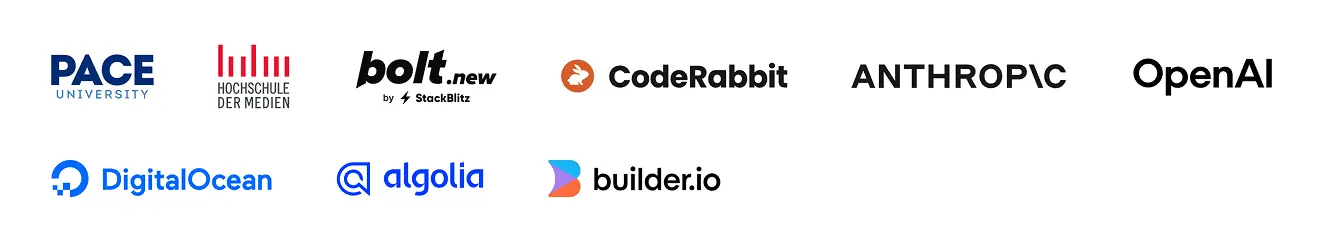
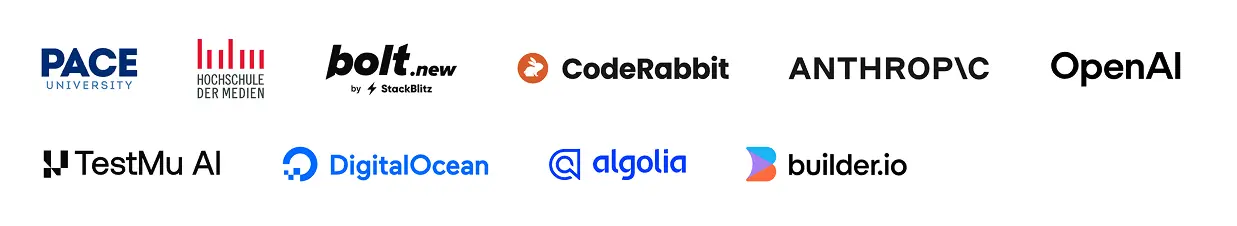
Add TestMu AI to partners in Credits component (#196)

diff --git a/website/src/components/Credits.tsx b/website/src/components/Credits.tsx
@@ -10,6 +10,7 @@ import {
   HdmLogo,
   OpenAILogo,
   PaceLogo,
+  TestMuAiLogo,
 } from '~/logos';
 
 /**
@@ -65,6 +66,10 @@ export const Credits = component$(() => {
           { Logo: CodeRabbitLogo, href: 'https://coderabbit.link/valibot' },
           { Logo: AnthropicLogo, href: 'https://www.anthropic.com' },
           { Logo: OpenAILogo, href: 'https://www.openai.com' },
+          {
+            Logo: TestMuAiLogo,
+            href: 'https://www.testmuai.com/?utm_medium=sponsor&utm_source=valibot',
+          },
           { Logo: DigitalOceanLogo, href: 'https://www.digitalocean.com/' },
           { Logo: AlgoliaLogo, href: 'https://www.algolia.com' },
           { Logo: BuilderLogo, href: 'https://www.builder.io' },
